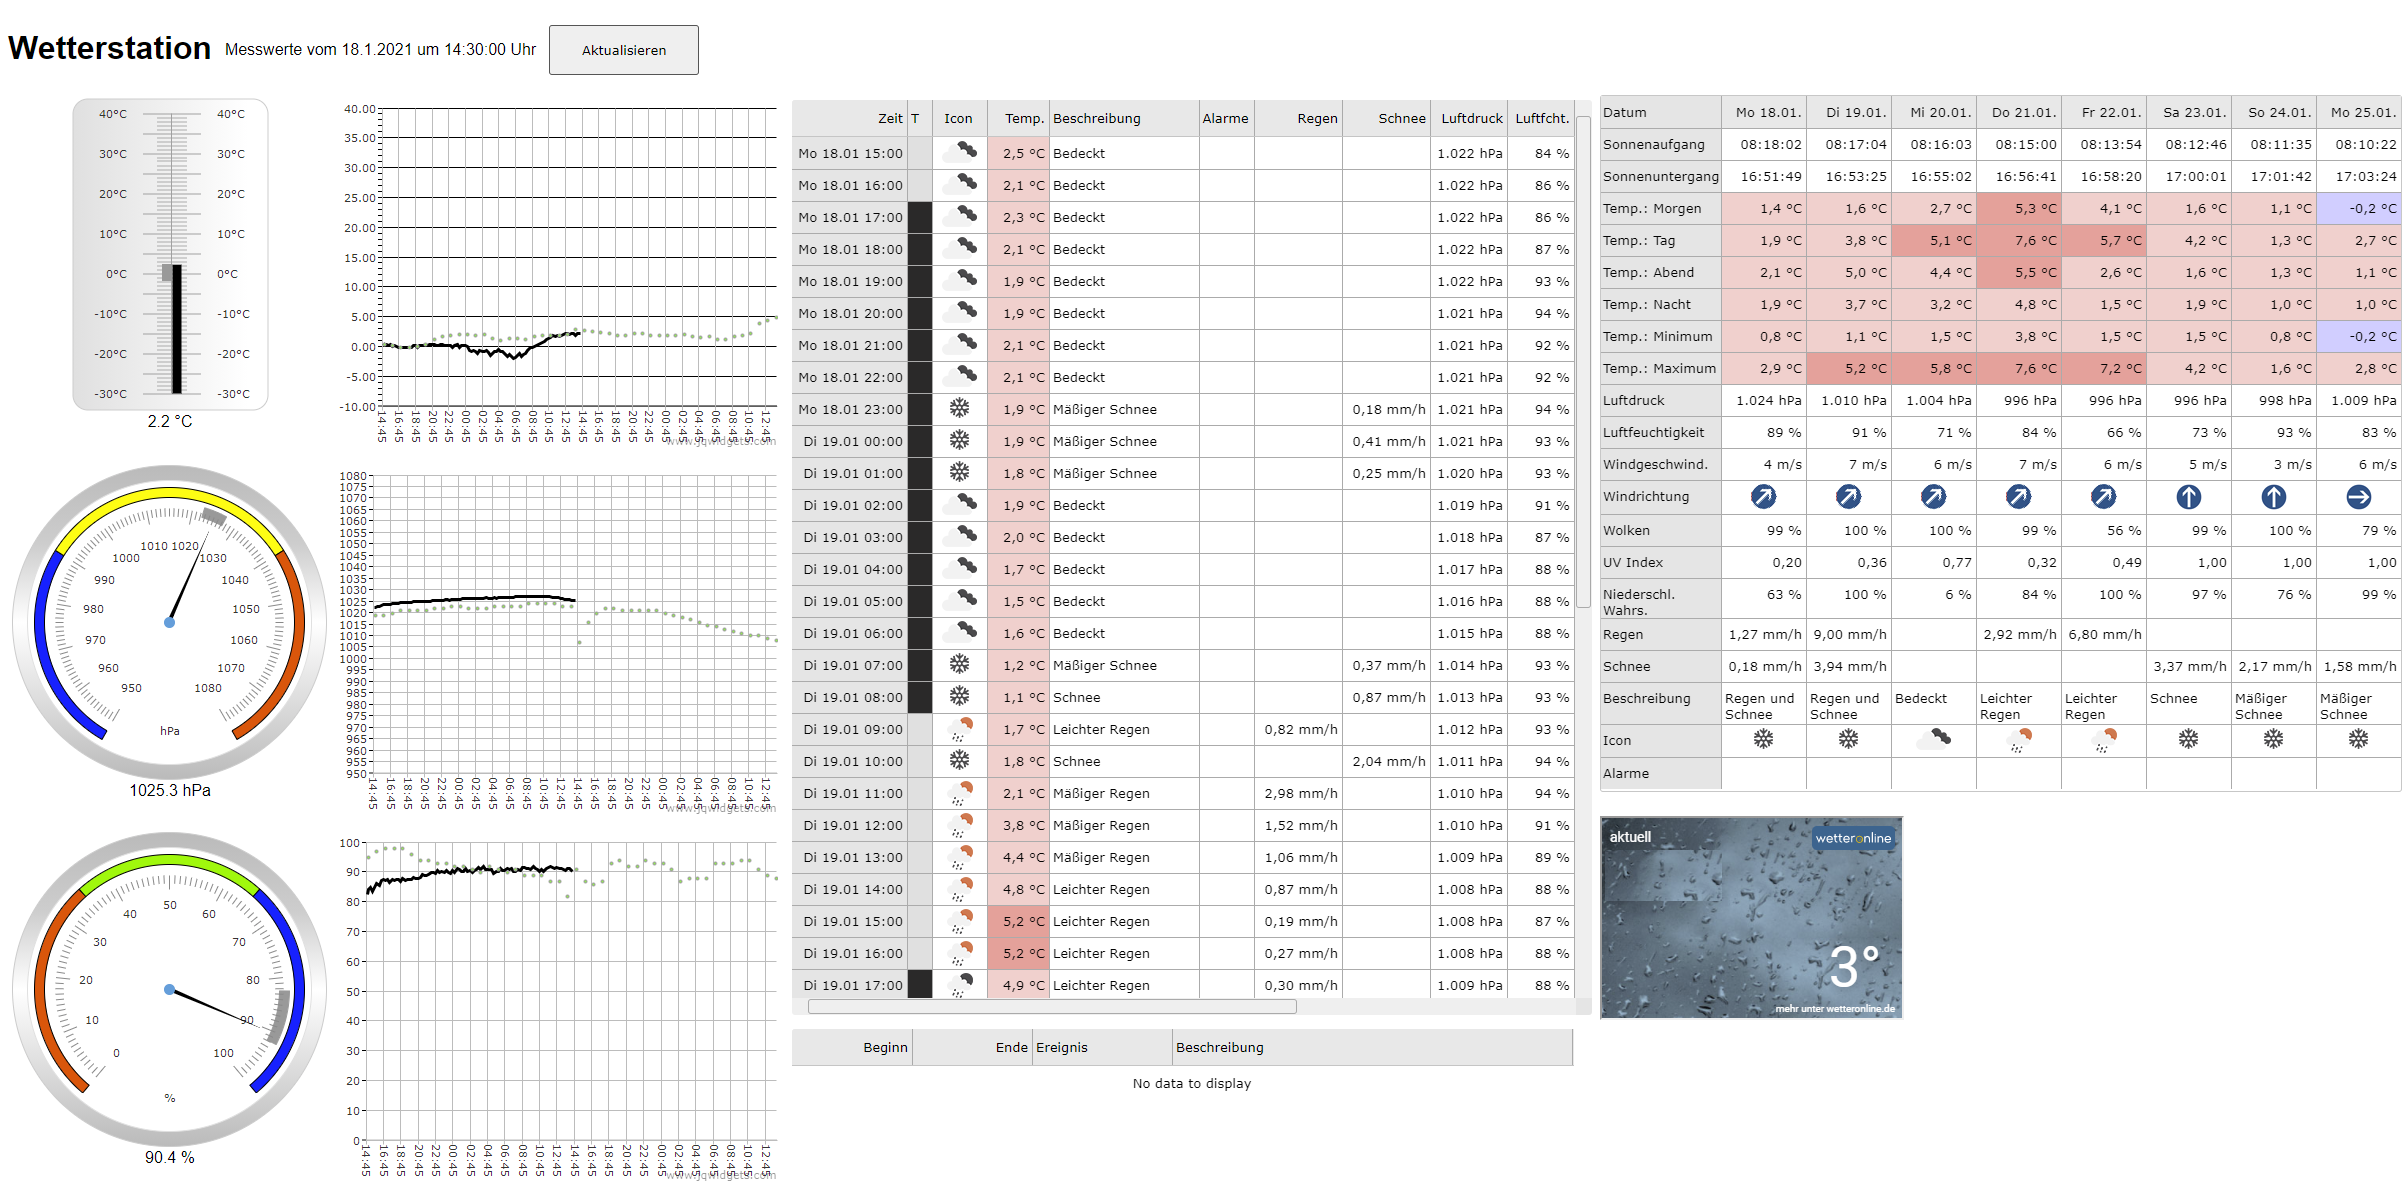
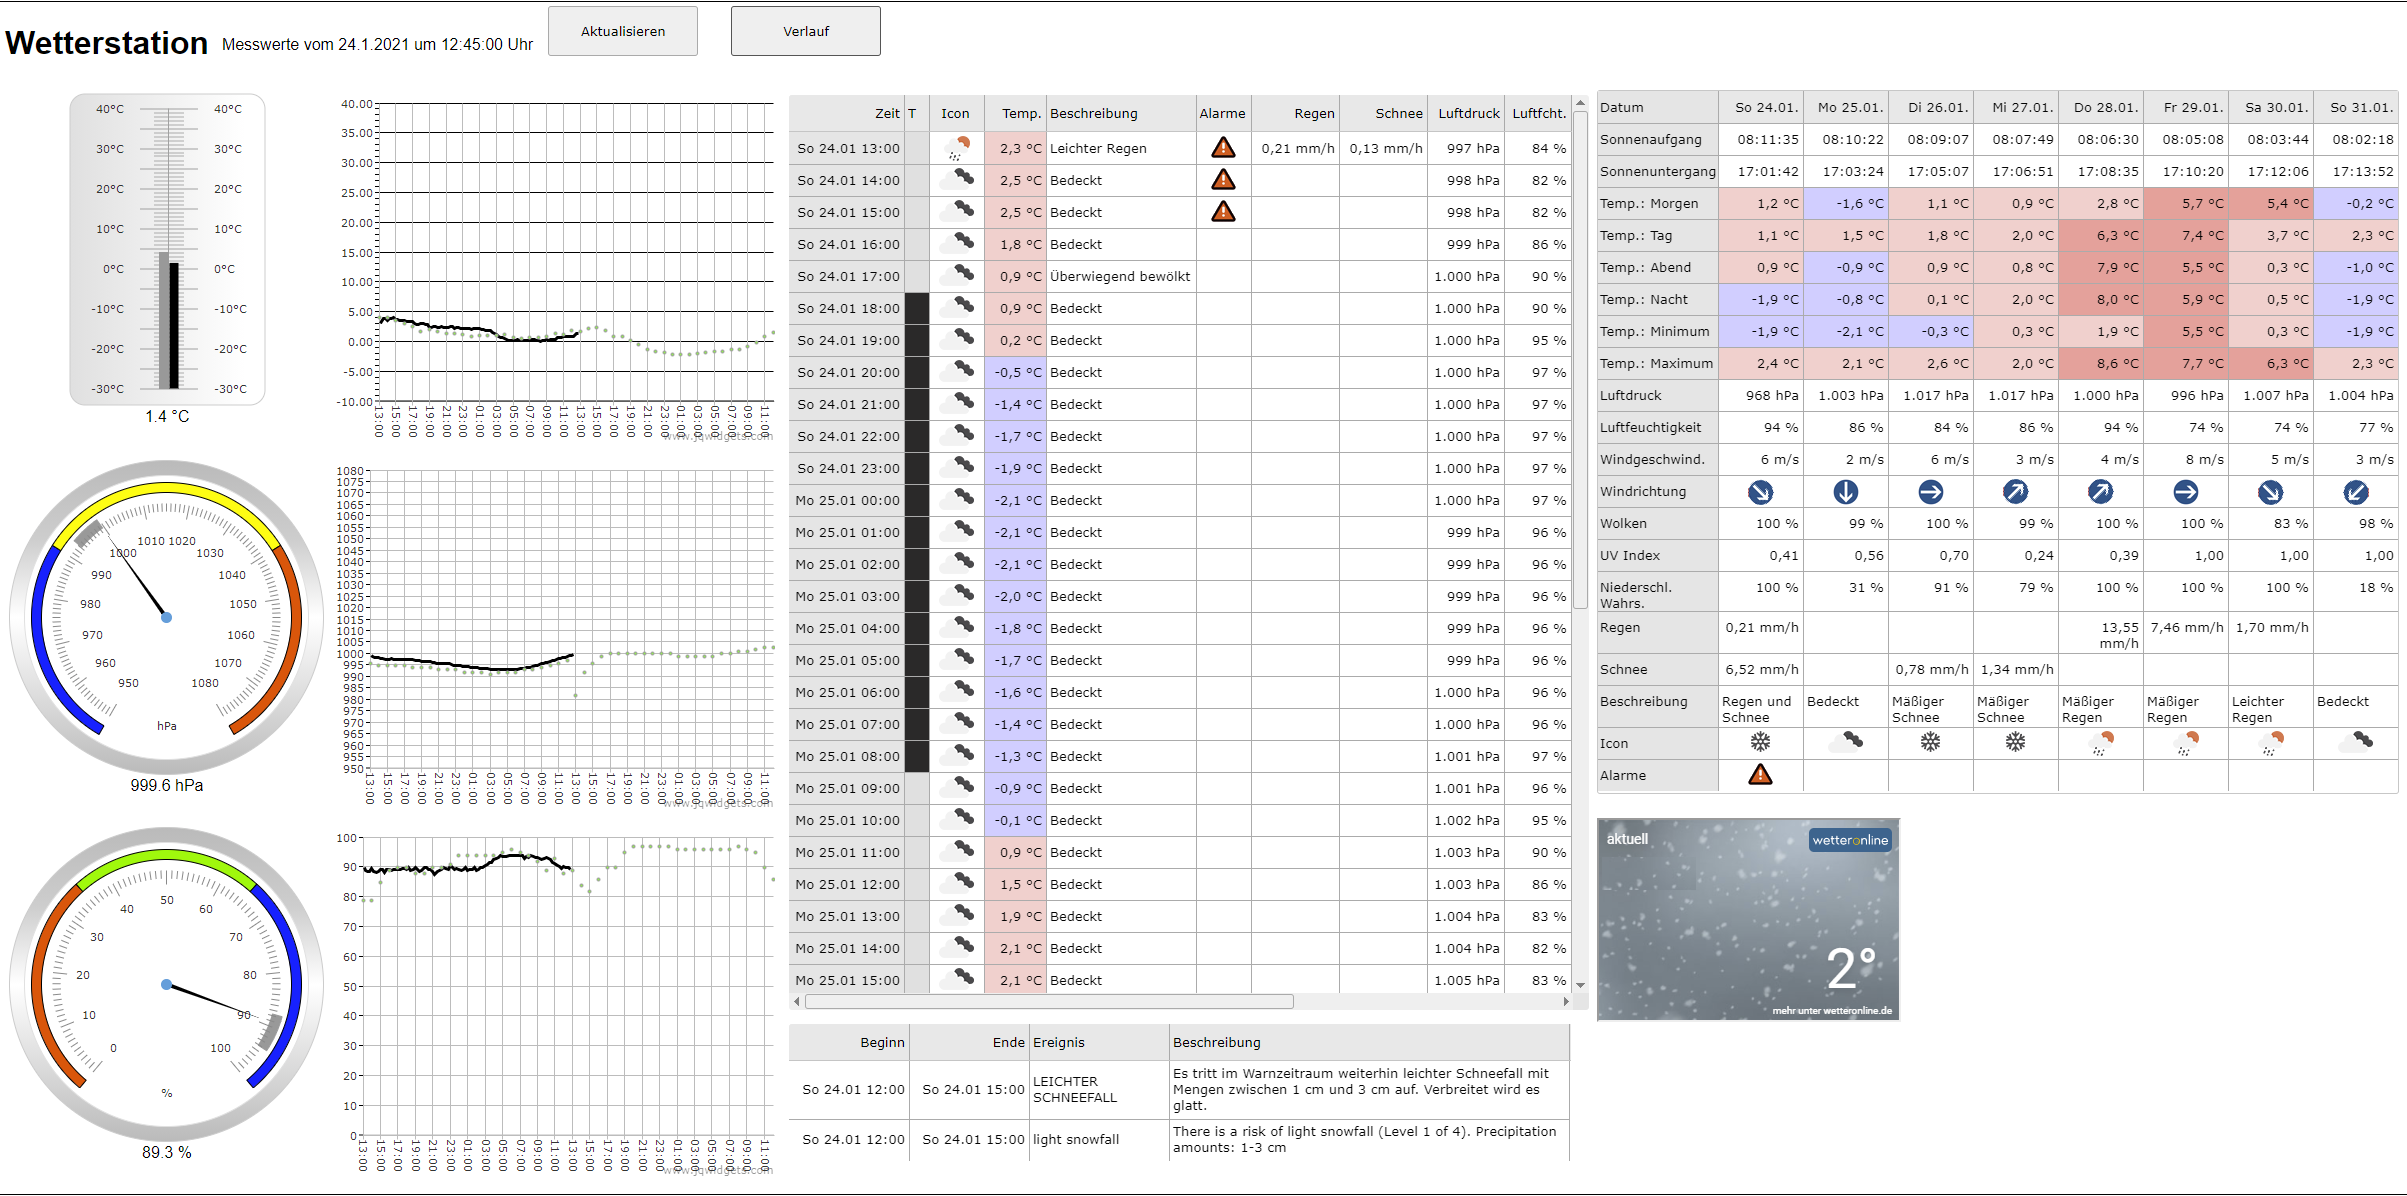
doc extended

Changed region(s): [[0.0, 0.0, 1.0, 0.99], [0.3428, 0.8662, 0.3739, 0.8972], [0.3116, 0.0, 0.3428, 0.0309]]

diff --git a/README.md b/README.md
@@ -9,10 +9,28 @@ Widgets on this page make use of the jQWidgets framework <https://www.jqwidgets.
 
 ## Overview
 
+### Main page
+
+- current measurement,
+- comparison measuremenr vs. forecast for the last 24 hours
+- forecast for the next 24 hours
+- table with 3-day openweathermap hourly forecast and alerts (all data from One Call API)
+- table with 8-day forecast data
+
 ![snweather-ui](img/snweather-ui.png)
+
+### Archive data
+
+- Historical graphics for temperature, pressure and humidity
+- selectable reference period
+- selectable periods for comparison
+
+![snweather-overview](img/snweatheroverview-ui.png)
 
 ## Installation
 
 Download / clone the package to your web server deploy directory (e.g. Apache htdocs).
 
-Adjust scripts/connect.php with the valid database connection data.
+Adjust scripts/connect.php with the valid database connection for the [snweatherstation](https://github.com/signag/snweatherstation) database.
+
+The main page URL is **/snweather-ui/index.php**.
